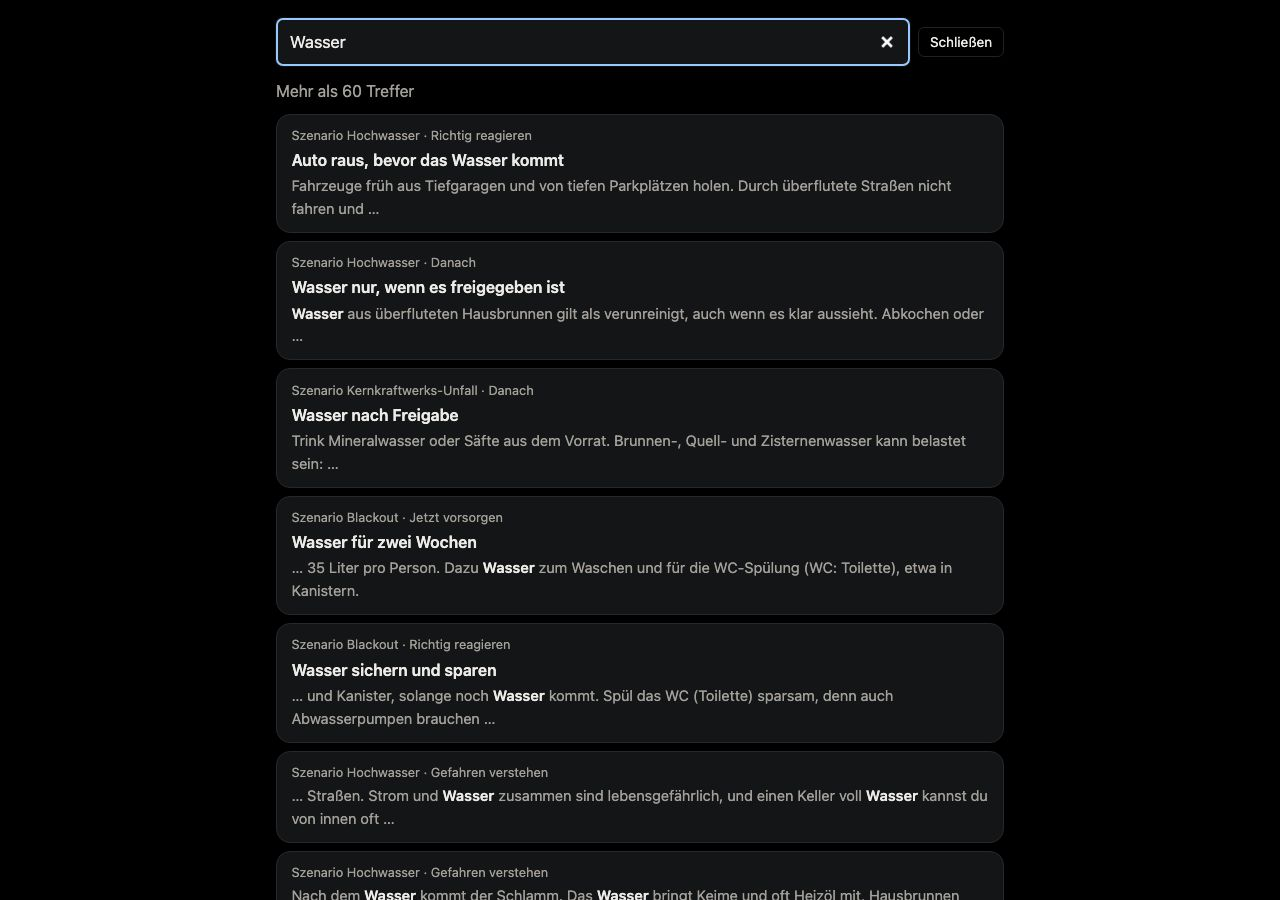
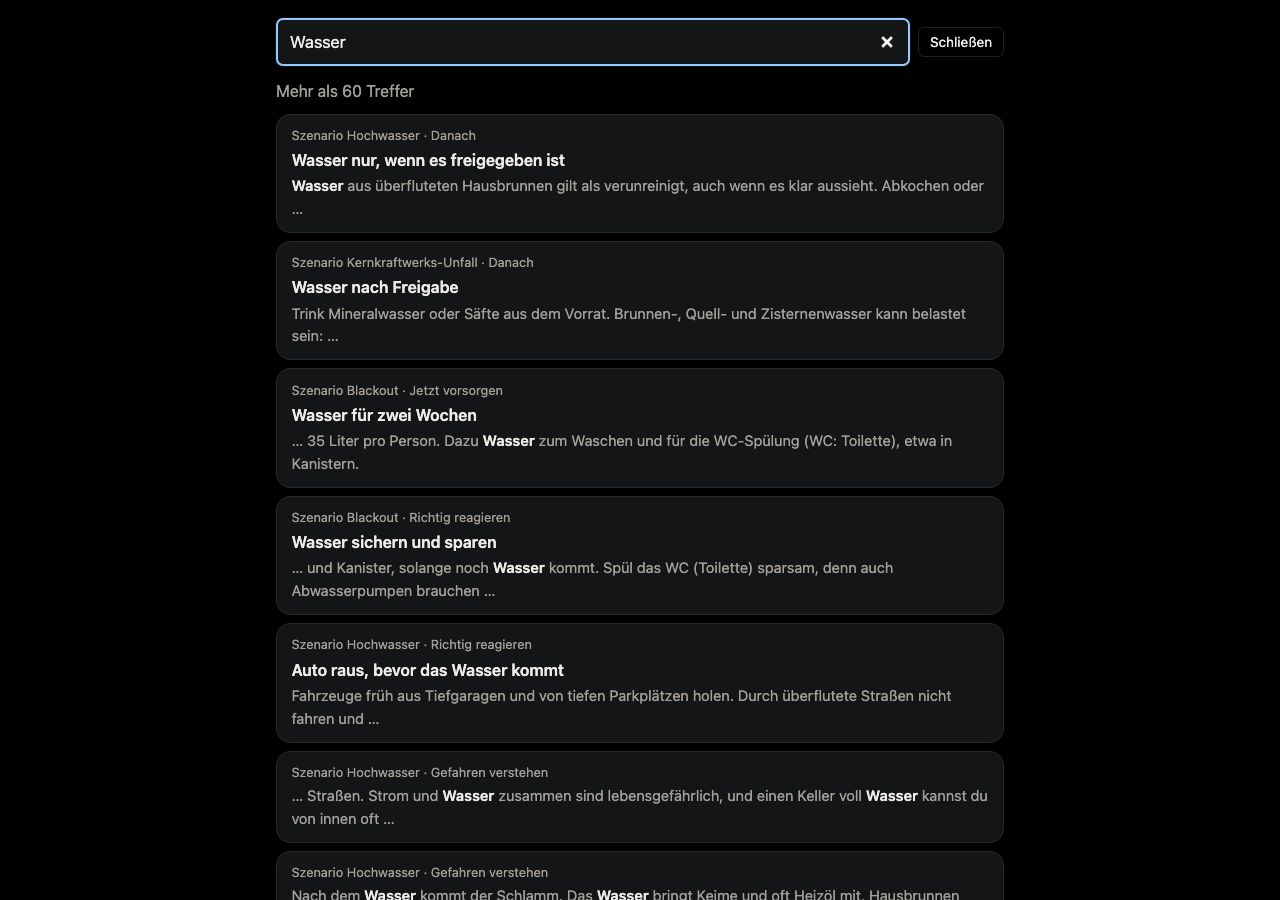
bill: Nr. 30 Nachbesserung in der Rückmeldung, Bild mit neuer Reihenfolge

diff --git a/bill/rueckmeldung/2026-10-15-nr-30-suche.md b/bill/rueckmeldung/2026-10-15-nr-30-suche.md
@@ -69,3 +69,14 @@ In Chrome mit vierfach gedrosselter CPU, etwa einem mittleren Handy:
 
 ## Nebenbei: Test aus Nr. 29 wackelte in der CI
 `werkzeug/heute-neu.test.mjs` setzte einen Wert im Gerätespeicher und lud sofort neu. In der CI kam der Wert in der neuen Seite nicht immer an (Lauf 38782989487; vorher lief der Test zweimal grün). Jetzt setzt der Test den Wert im neuen Dokument selbst, bevor die App startet. Die Prüfung ist dieselbe, kein Wert und keine Bedingung gelockert.
+
+## Nachbesserung nach deiner Prüfung (15.10., 20:36)
+Commit `edd8b07`.
+1. **Tastatur:** Pfeil runter springt aus dem Feld in die Treffer und von Treffer zu Treffer, Pfeil hoch zurück bis ins Feld. Enter im Feld öffnet den ersten Treffer, Esc schließt wie bisher.
+2. **Reihenfolge im Rang:** zuerst Überschriften, die mit dem Suchwort beginnen, dann die, in denen es steht, dann der Rest. Die Ränge bleiben. „Wasser für zwei Wochen“ steht jetzt vor „Auto raus, bevor das Wasser kommt“.
+
+**Tests, ohne die Änderung rot geprüft:**
+- `werkzeug/suche.test.mjs`: Tastatur und Reihenfolge bei „Wasser“.
+- `web/suche.test.mjs`: Reihenfolge innerhalb und zwischen Rängen.
+
+**Bild:** `suche-wasser-…` ist neu, mit der neuen Reihenfolge.
